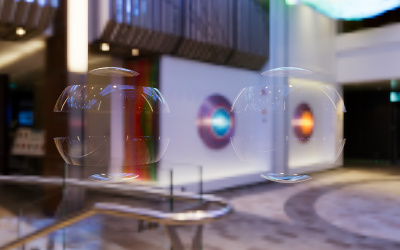
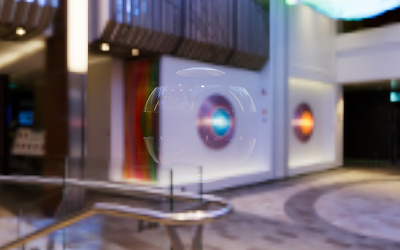
Examples: Clean up (#22029)
* Clean up

* Update screenshot

diff --git a/examples/webgl_materials_physical_transmission.html b/examples/webgl_materials_physical_transmission.html
@@ -9,7 +9,7 @@
 	<body>
 
 		<div id="container"></div>
-		<div id="info"><a href="https://threejs.org" target="_blank" rel="noopener">threejs</a> - Transmission with Premultiplied Alpha (right) and without (left)</div>
+		<div id="info"><a href="https://threejs.org" target="_blank" rel="noopener">threejs</a> - Transmission</div>
 
 		<script type="module">
 
@@ -36,7 +36,7 @@
 			let camera, scene, renderer;
 
 			let hdrCubeRenderTarget;
-			let mesh1, mesh2;
+			let mesh;
 
 			const hdrEquirect = new RGBELoader()
 				.setDataType( THREE.UnsignedByteType )
@@ -65,7 +65,6 @@
 				renderer.outputEncoding = THREE.sRGBEncoding;
 
 				scene = new THREE.Scene();
-				scene.background = hdrEquirect;
 
 				camera = new THREE.PerspectiveCamera( 40, window.innerWidth / window.innerHeight, 1, 2000 );
 				camera.position.set( 0, 0, 120 );
@@ -102,13 +101,8 @@
 					transparent: true
 				} );
 
-				mesh1 = new THREE.Mesh( geometry, material );
-				mesh1.position.x = - 30.0;
-				scene.add( mesh1 );
-
-				mesh2 = new THREE.Mesh( geometry, material );
-				mesh2.position.x = 30.0;
-				scene.add( mesh2 );
+				mesh = new THREE.Mesh( geometry, material );
+				scene.add( mesh );
 
 				//
 
@@ -213,8 +207,8 @@
 
 				const t = performance.now();
 
-				mesh1.rotation.x = mesh2.rotation.x = t * 0.0002;
-				mesh1.rotation.z = mesh2.rotation.z = - t * 0.0002;
+				mesh.rotation.x = t * 0.0002;
+				mesh.rotation.z = - t * 0.0002;
 
 				stats.begin();
 				renderer.render( scene, camera );
